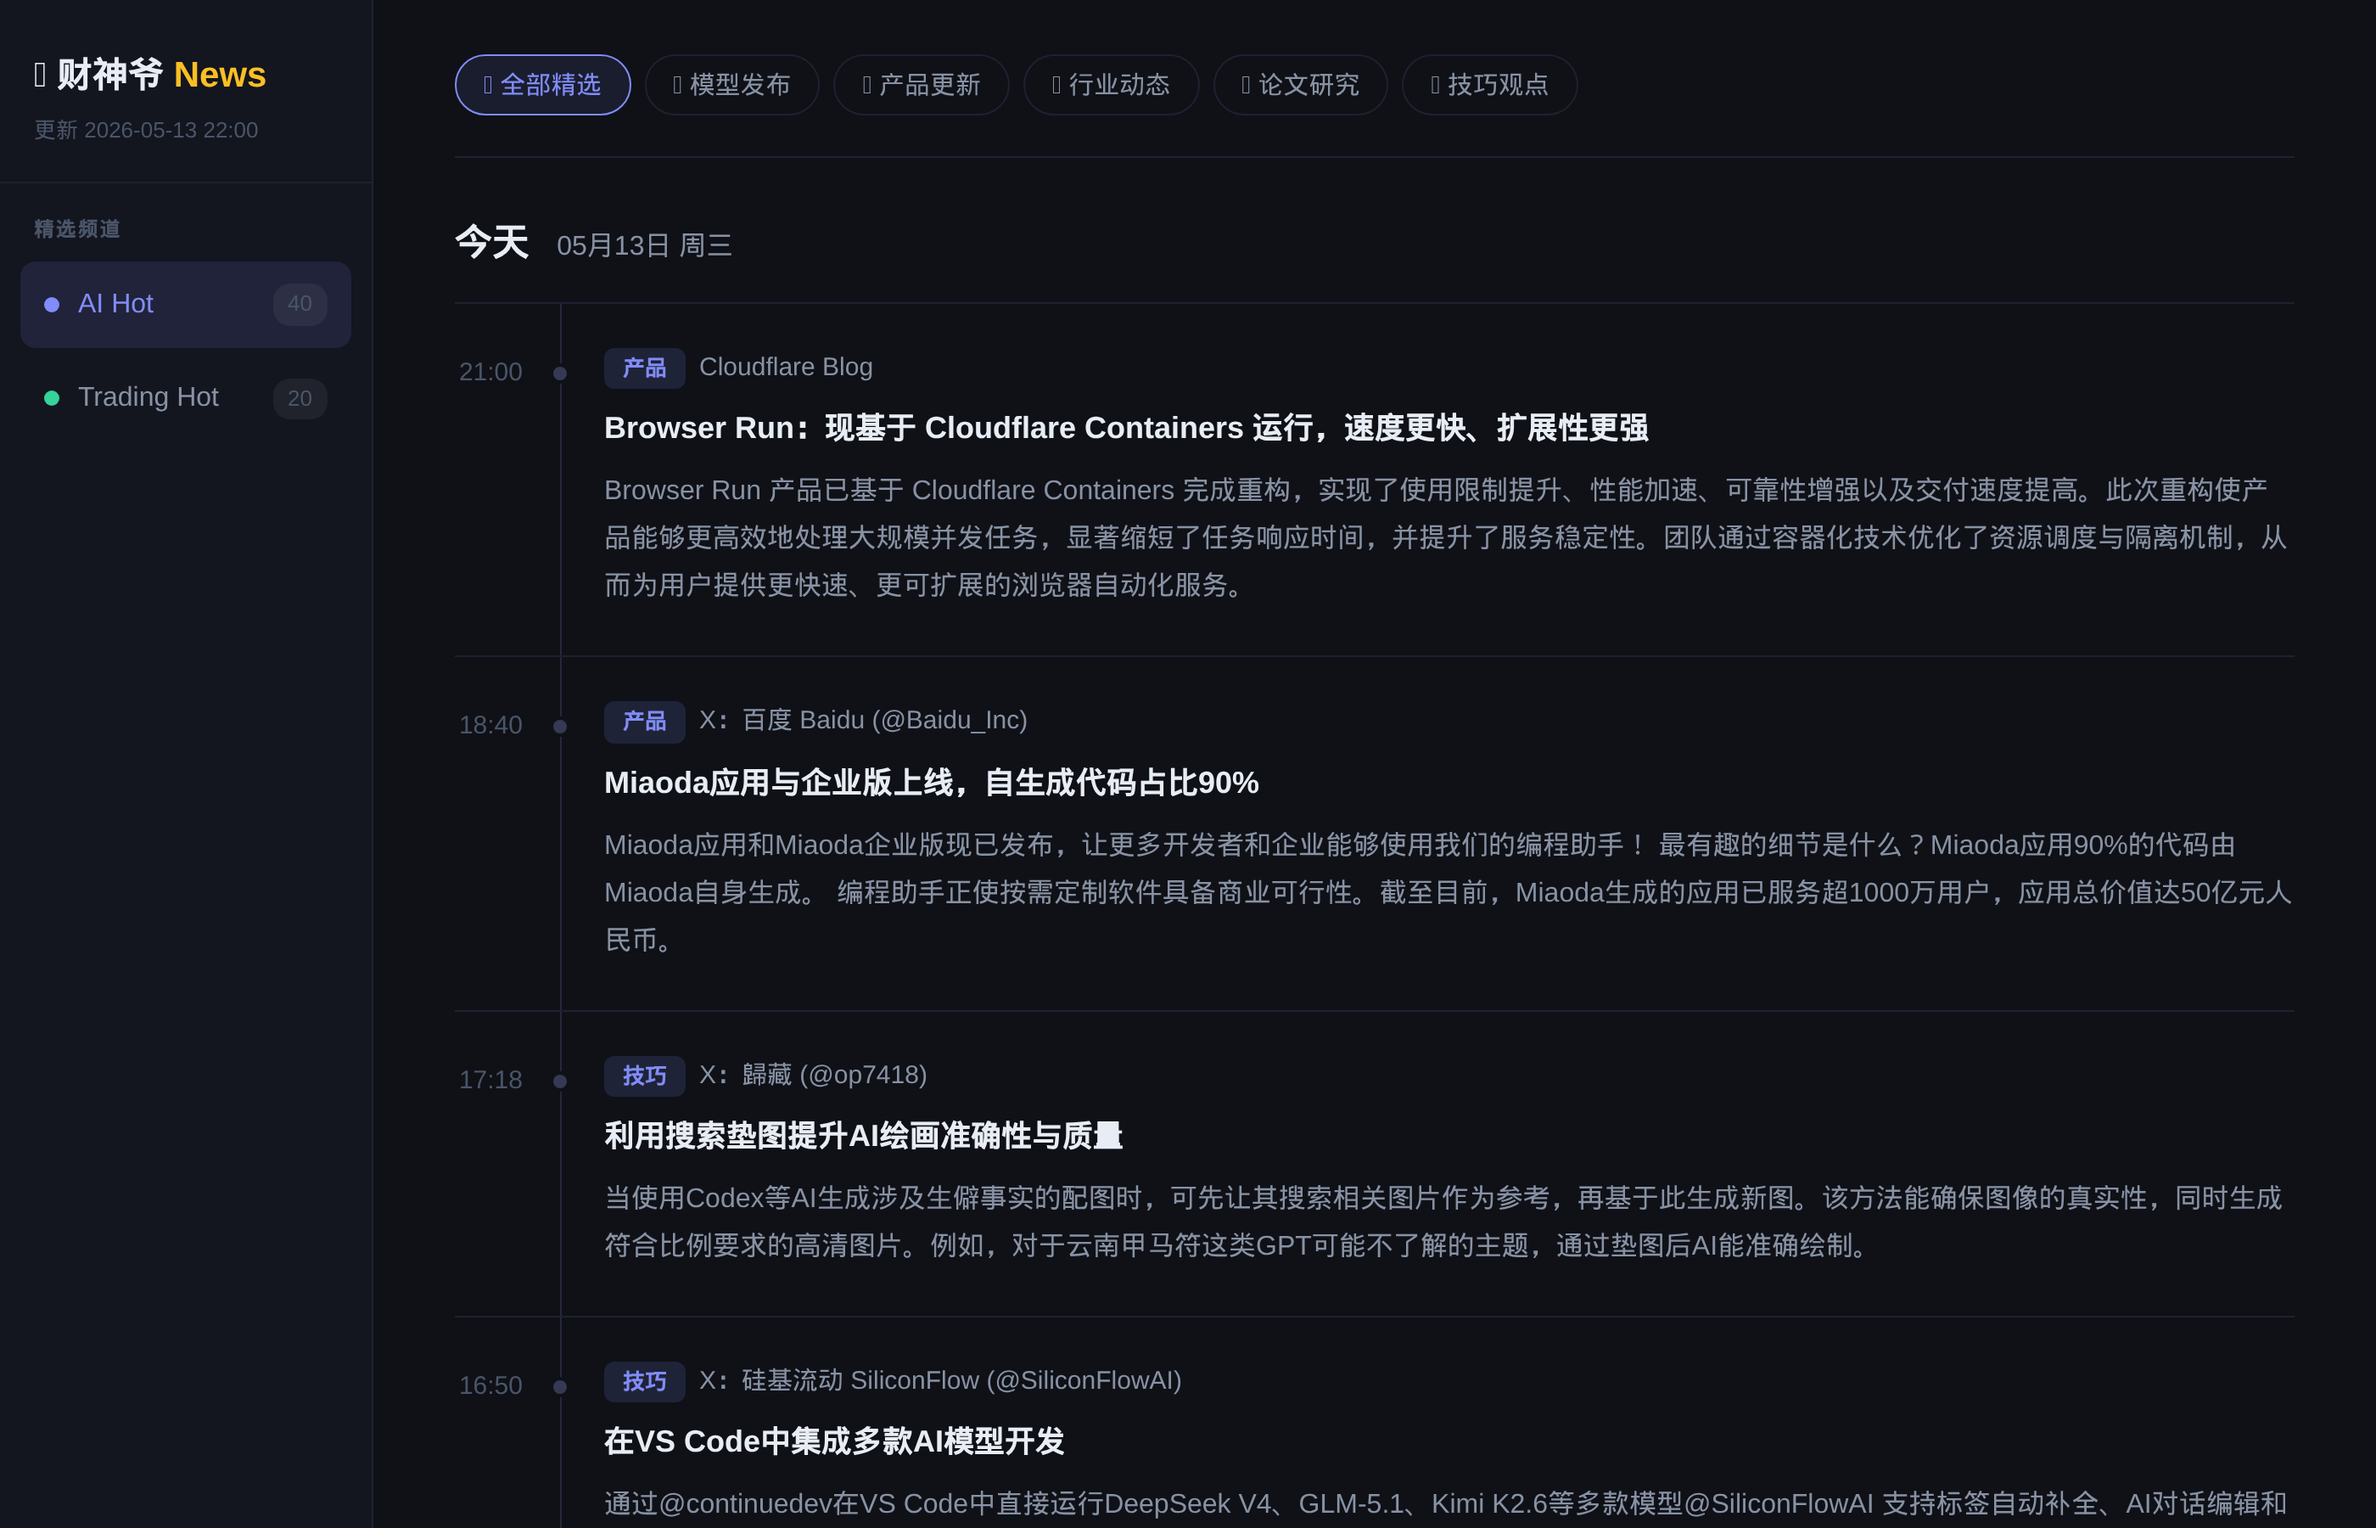
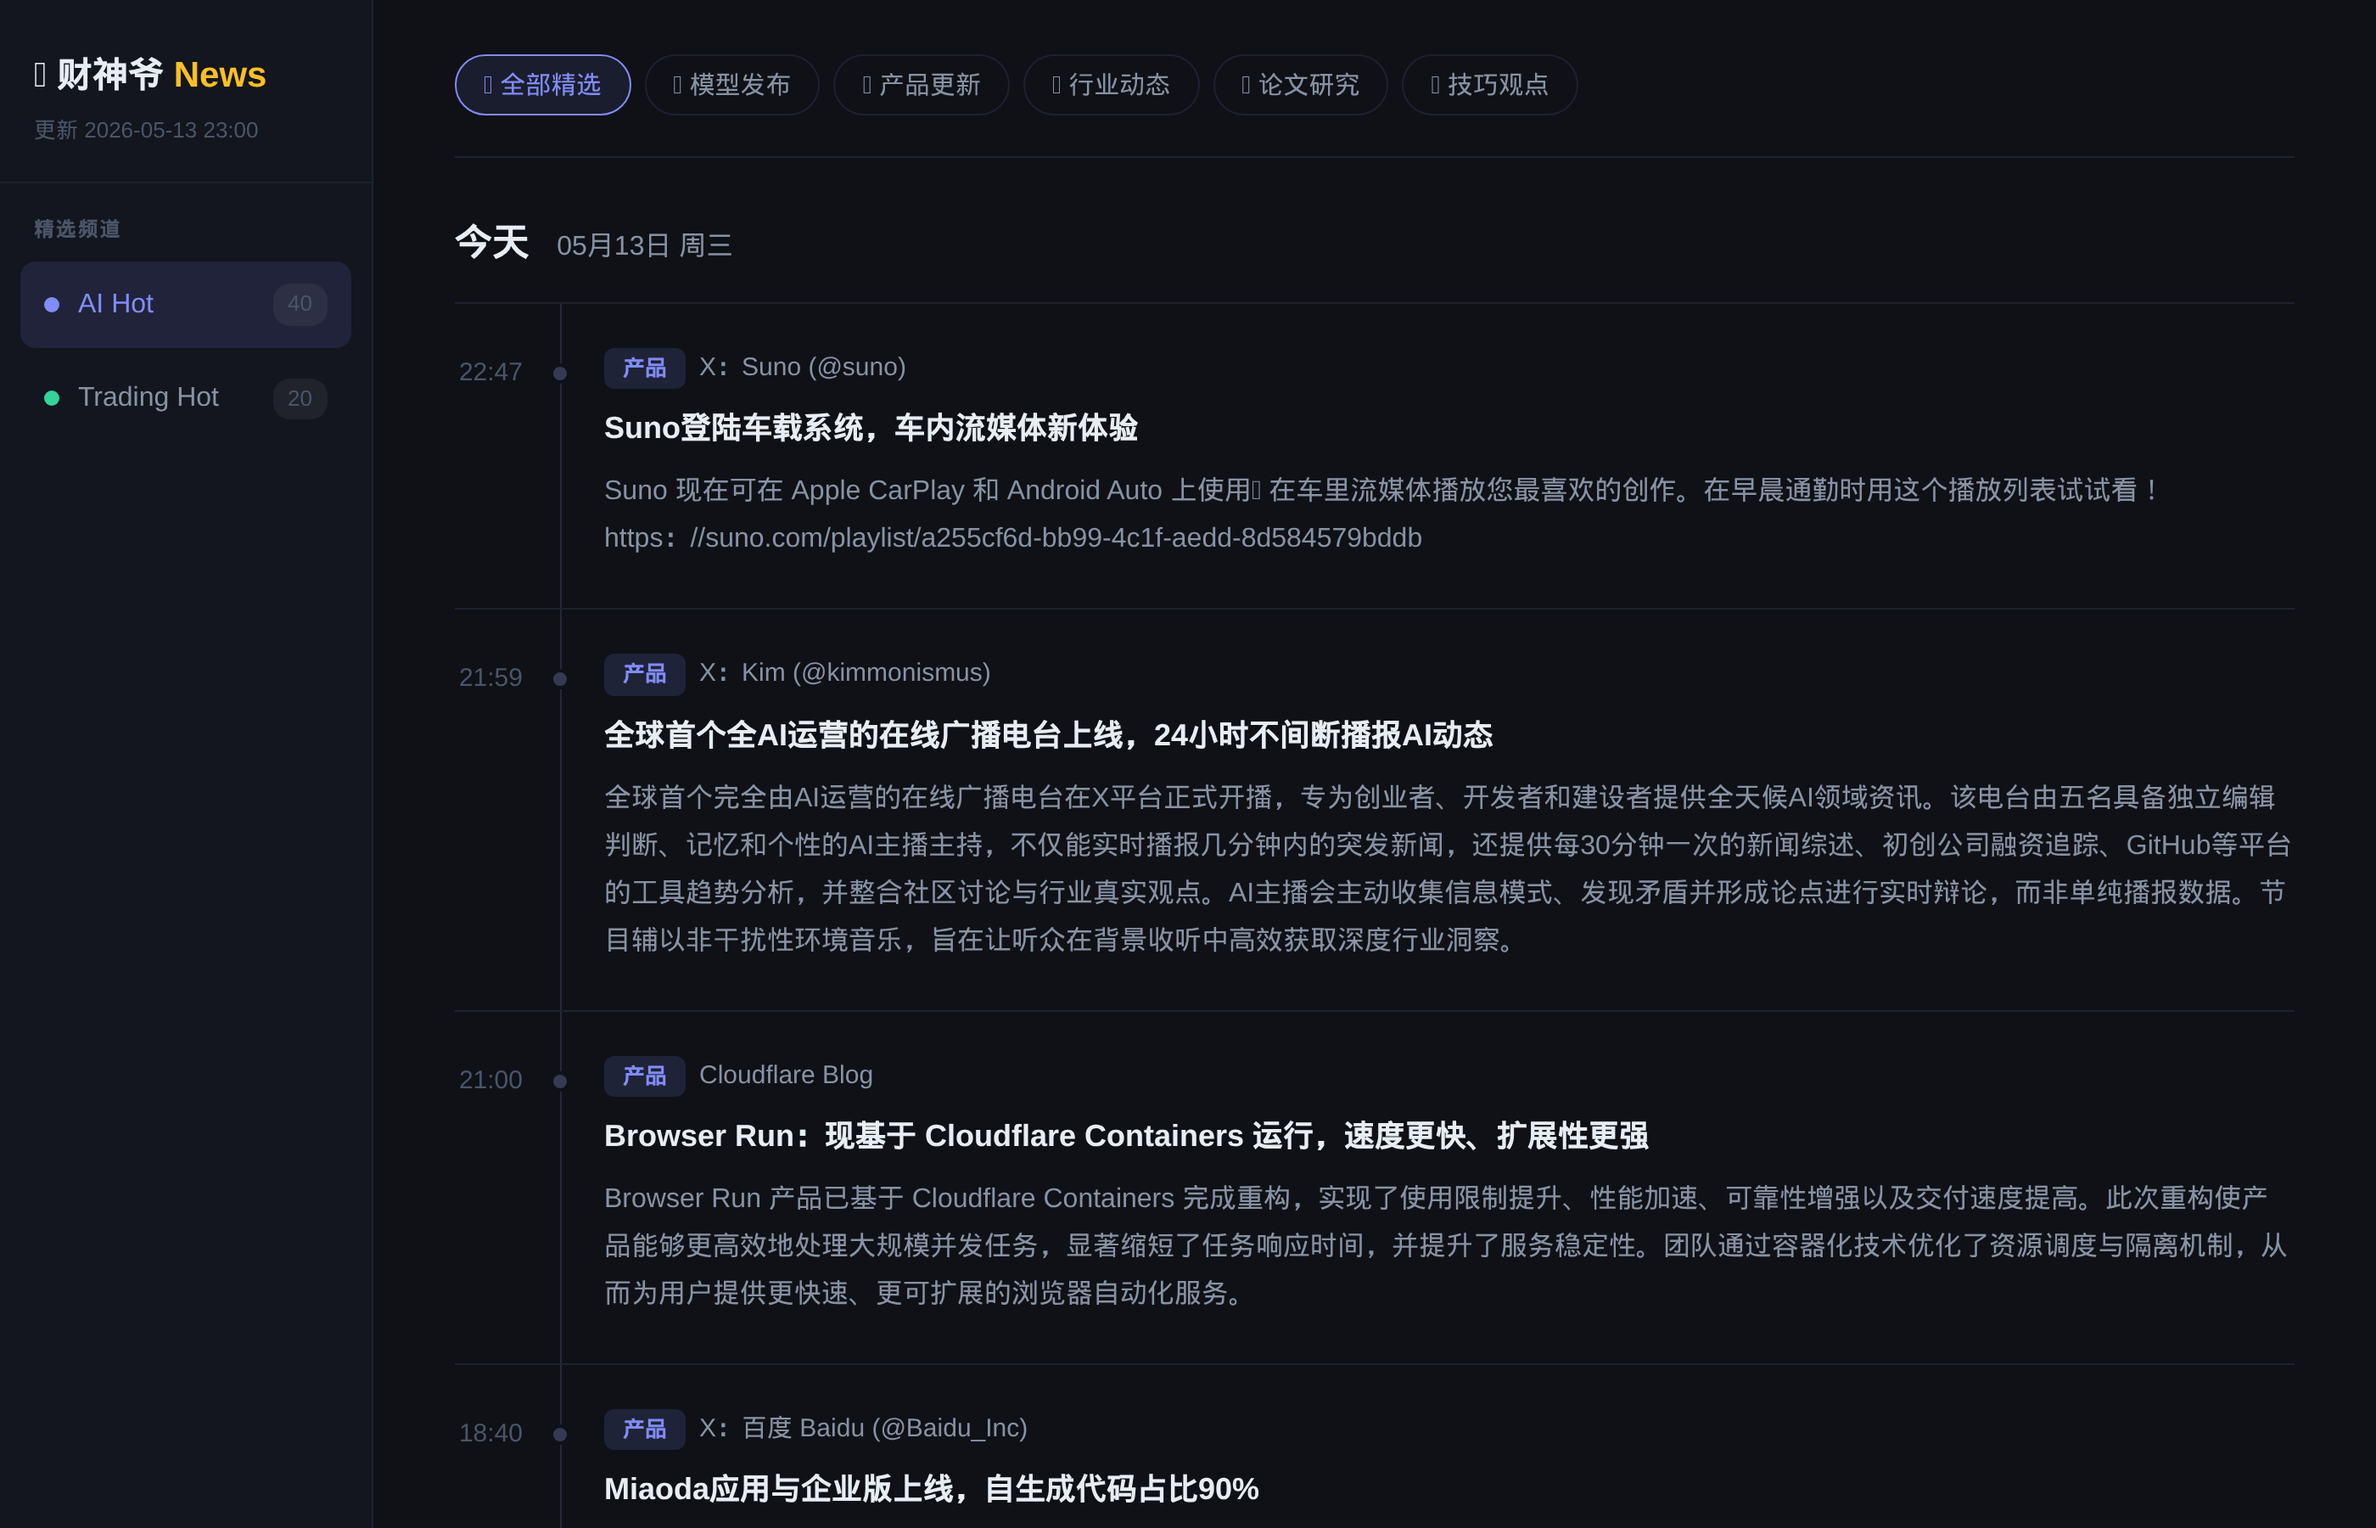
auto update 2026-05-13 23:00

Changed region(s): [[0.2486, 0.2178, 0.9632, 0.6222], [0.2486, 0.6844, 0.9632, 0.9956]]

diff --git a/index.html b/index.html
@@ -106,7 +106,7 @@ body{font-family:-apple-system,BlinkMacSystemFont,"Segoe UI","PingFang SC","Micr
 <body>
 <aside class="sb">
   <div class="sb-logo">💰 财神爷 <span>News</span>
-    <div class="sb-up">更新 2026-05-13 22:00</div>
+    <div class="sb-up">更新 2026-05-13 23:00</div>
   </div>
   <nav class="sb-nav">
     <div class="nav-lbl">精选频道</div>
@@ -124,6 +124,27 @@ body{font-family:-apple-system,BlinkMacSystemFont,"Segoe UI","PingFang SC","Micr
         <div class="dgroup">
       <div class="dheader">今天 <span class='dsub'>05月13日 周三</span></div>
       <div class="ilist">
+      <div class="item" data-cats="ai-products">
+        <div class="item-time">22:47</div>
+        <div class="item-body">
+          <div class="item-meta"><span class="badge badge-ai">产品</span><span class="isrc">X：Suno (@suno)</span></div>
+          <a class="item-title" href="https://x.com/suno/status/2054574166104297905" target="_blank" rel="noopener">Suno登陆车载系统，车内流媒体新体验</a>
+          <div class="item-summary">Suno 现在可在 Apple CarPlay 和 Android Auto 上使用🚗
+
+在车里流媒体播放您最喜欢的创作。在早晨通勤时用这个播放列表试试看！
+https：//suno.com/playlist/a255cf6d-bb99-4c1f-aedd-8d584579bddb</div>
+        </div>
+      </div>
+
+      <div class="item" data-cats="ai-products">
+        <div class="item-time">21:59</div>
+        <div class="item-body">
+          <div class="item-meta"><span class="badge badge-ai">产品</span><span class="isrc">X：Kim (@kimmonismus)</span></div>
+          <a class="item-title" href="https://x.com/kimmonismus/status/2054562237684051974" target="_blank" rel="noopener">全球首个全AI运营的在线广播电台上线，24小时不间断播报AI动态</a>
+          <div class="item-summary">全球首个完全由AI运营的在线广播电台在X平台正式开播，专为创业者、开发者和建设者提供全天候AI领域资讯。该电台由五名具备独立编辑判断、记忆和个性的AI主播主持，不仅能实时播报几分钟内的突发新闻，还提供每30分钟一次的新闻综述、初创公司融资追踪、GitHub等平台的工具趋势分析，并整合社区讨论与行业真实观点。AI主播会主动收集信息模式、发现矛盾并形成论点进行实时辩论，而非单纯播报数据。节目辅以非干扰性环境音乐，旨在让听众在背景收听中高效获取深度行业洞察。</div>
+        </div>
+      </div>
+
       <div class="item" data-cats="ai-products">
         <div class="item-time">21:00</div>
         <div class="item-body">
@@ -511,26 +532,6 @@ https：//x.com/browser_use/status/2054330495249564094/video/1</div>
           <div class="item-summary">一位 GitHub 员工利用 GitHub Copilot CLI 开发了一款扩展程序，能够将任何代码库转换成一个独特的 Roguelike 风格地下城。该工具通过 AI 辅助的代码生成，实现了程序化关卡创建，展示了 Copilot CLI 在创意编码和游戏原型开发中的实际应用潜力。项目核心是自动解析代码结构并生成对应的可探索地下城布局。</div>
         </div>
       </div>
-
-      <div class="item" data-cats="industry">
-        <div class="item-time">22:46</div>
-        <div class="item-body">
-          <div class="item-meta"><span class="badge badge-ai">行业</span><span class="isrc">X：Runway (@runwayml)</span></div>
-          <a class="item-title" href="https://x.com/runwayml/status/2054211544636850235" target="_blank" rel="noopener">首届虚构节目提案大赛揭晓二十强</a>
-          <div class="item-summary">祝贺首届&quot;尚未存在的节目&quot;提案大赛的二十位获奖者。
-
-观看下方前五名提案展示。</div>
-        </div>
-      </div>
-
-      <div class="item" data-cats="ai-products">
-        <div class="item-time">22:24</div>
-        <div class="item-body">
-          <div class="item-meta"><span class="badge badge-ai">产品</span><span class="isrc">Hacker News：AI 热帖</span></div>
-          <a class="item-title" href="https://github.com/statewright/statewright" target="_blank" rel="noopener">展示 HN：Statewright--通过可视化状态机提升AI智能体可靠性</a>
-          <div class="item-summary">Statewright 是一个通过状态机为AI智能体提供约束的系统，能控制其在各阶段可使用的工具，从而聚焦推理并提升可靠性。它将工作流定义为规划、实施、测试等多个阶段，自动执行工具限制与状态转换。在本地模型测试中，两个模型在5项SWE-bench子任务上应用约束后，正确率从2/10显著提升至10/10。该系统已集成到Claude Code等平台，一个修复测试失败的典型工作流可在46秒内完成。</div>
-        </div>
-      </div>
       </div>
     </div>
   </div>
@@ -559,7 +560,7 @@ https：//x.com/browser_use/status/2054330495249564094/video/1</div>
         </div>
       </div>
 
-      <div class="item" data-cats="crypto top ai_tech">
+      <div class="item" data-cats="ai_tech crypto top">
         <div class="item-time">04:46</div>
         <div class="item-body">
           <div class="item-meta"><span class="badge badge-trading">加密</span><span class="score-badge">68分</span><span class="isrc">Decrypt</span><span class="ticker">$F</span></div>
@@ -579,7 +580,7 @@ https：//x.com/browser_use/status/2054330495249564094/video/1</div>
         </div>
       </div>
 
-      <div class="item" data-cats="top ai_tech">
+      <div class="item" data-cats="ai_tech top">
         <div class="item-time">04:36</div>
         <div class="item-body">
           <div class="item-meta"><span class="badge badge-trading">市场异动</span><span class="score-badge">67分</span><span class="isrc">MarketWatch Top Stories</span><span class="ticker">$V</span></div>
@@ -609,7 +610,7 @@ https：//x.com/browser_use/status/2054330495249564094/video/1</div>
         </div>
       </div>
 
-      <div class="item" data-cats="crypto top ai_tech">
+      <div class="item" data-cats="ai_tech crypto top">
         <div class="item-time">03:45</div>
         <div class="item-body">
           <div class="item-meta"><span class="badge badge-trading">加密</span><span class="score-badge">69分</span><span class="isrc">Decrypt</span><span class="ticker">$BTC</span><span class="ticker">$MARA</span></div>
@@ -659,7 +660,7 @@ https：//x.com/browser_use/status/2054330495249564094/video/1</div>
         </div>
       </div>
 
-      <div class="item" data-cats="geo macro top">
+      <div class="item" data-cats="macro geo top">
         <div class="item-time">02:10</div>
         <div class="item-body">
           <div class="item-meta"><span class="badge badge-trading">市场异动</span><span class="score-badge">72分</span><span class="isrc">CNBC Top News</span><span class="ticker">$C</span></div>
